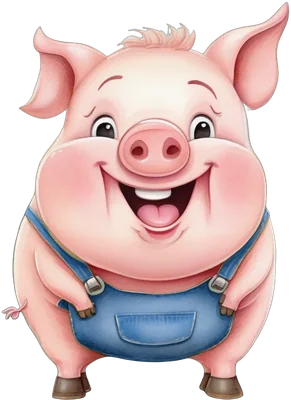
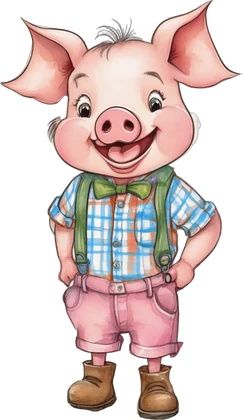
3びきのこぶた：こぶたの絵をオオカミと同じ画風にする
- こぶたを、オオカミと同じ色えんぴつと水彩の画風（細い線、服を着た立ち姿）で作り直す
- 3びきはシャツの色を黄・オレンジ・青に変えて見分ける。2ひきめの吹き出しのふちもオレンジにする
- 表情（にっこり・こわがる）は顔のまわりだけインペイントで描き直す
- 絵の大きさと足元の位置、汗の位置を新しい絵に合わせる

diff --git a/three-little-pigs/js/art.js b/three-little-pigs/js/art.js
@@ -30,7 +30,7 @@
   // height はワールド座標での高さ。
 
   const SPRITES = {
-    pig: { px: [291, 400], foot: [147.3, 399.6], height: 164 },
+    pig: { px: [243, 420], foot: [124, 419.5], height: 175 },
     wolf: { px: [284, 460], foot: [172.5, 459.5], height: 235 },
   };
 
@@ -91,7 +91,7 @@ ${lin('g-fade-h', [[0, '#000'], [0.04, '#fff'], [0.96, '#fff'], [1, '#000']], 1,
 ${shadow(52, 8)}
 <g class="a-body">
   ${faces('pig' + n, PIG_FACES, b)}
-  <g class="p-sweat">${drop(52, -150)}${drop(64, -128, 0.7)}</g>
+  <g class="p-sweat">${drop(36, -152)}${drop(46, -132, 0.7)}</g>
 </g>`;
   }
 

diff --git a/three-little-pigs/style.css b/three-little-pigs/style.css
@@ -392,7 +392,7 @@ button:focus-visible, select:focus-visible { outline: 3px solid var(--ink); outl
 .bubble::after { top: calc(100% - 1px); border-width: 12px 8px 0; border-top-color: #fffdf8; }
 .bubble.wolf { --edge: #8a93a6; }
 .bubble.pig1 { --edge: var(--mustard); }
-.bubble.pig2 { --edge: var(--sage); }
+.bubble.pig2 { --edge: #e0904e; }
 .bubble.pig3 { --edge: var(--slate); }
 .bubble.pigs { --edge: var(--rose); }
 @keyframes bubble-in {

diff --git a/three-little-pigs/README.md b/three-little-pigs/README.md
@@ -76,7 +76,7 @@
 ### デザイン
 水彩と色えんぴつで描いた絵本のような見た目です。
 - こぶた・オオカミ・家・材料・水さし・おなべ・だんろ・背景は、画像生成 AI（Stable Diffusion XL）で作った画像です（`img/`）。作り方は下の「絵について」を見てください
-- こぶた 3 びきは同じ 1 枚の絵から作り、服の色だけを変えています（1ぴきめは黄色、2ひきめは緑、3びきめは青）。顔や体の形がそろうので、きょうだいらしく見えます
+- こぶた 3 びきは同じ 1 枚の絵から作り、シャツの色だけを変えています（1ぴきめは黄色、2ひきめはオレンジ、3びきめは青）。顔や体の形がそろうので、きょうだいらしく見えます
 - 表情は、顔のまわりだけを描き直した画像を重ねて切り替えます。こぶたは「ふつう・にこにこ・こわがる」、オオカミは「ふつう・ほっぺをふくらませる・ふーっ・へとへと・あちち・ごめんね・にっこり」です
 - マイクで息を吹いているあいだは、息の強さに合わせて、ほっぺをふくらませたオオカミの絵がじわっと重なります
 - 家の絵は横に切り分けてあり、タッチするたびに下から 1 段ずつ積み上がります。ふきとぶときは、段ごとにばらばらに飛んでいきます
@@ -92,7 +92,9 @@
 1. 元になる絵（こぶた・オオカミ・家・背景など）を、絵本風の水彩という共通の指示で何枚か作り、よいものを選ぶ
 2. 表情ちがいは、元の絵の顔のまわりだけを描き直す（インペイント）。描き直した範囲の外は元の絵のままなので、体や服はずれません
 3. 背景を取り除いて透過にし（rembg）、表情ちがいの絵がぴったり重なるよう、同じ範囲で切り抜いて大きさをそろえる
-4. こぶたの服の色は、緑の部分の色相だけを変えて黄色と青にする
+4. こぶたのシャツの色は、オレンジの部分の色相だけを変えて黄色と青にする
+
+こぶたは、オオカミと同じ画風（色えんぴつと水彩、細い線、2 本足の立ち姿で服を着ている）になるよう、オオカミの絵に合わせた指示で作り直しました。元の絵で手に持っていた不要な金具は、インペイントで消しています。
 
 絵を差し替えるときは、`js/art.js` の先頭にある画像の大きさや足元の位置（`SPRITES`・`HOUSE_IMG` など）も合わせて直してください。
 

diff --git a/CLAUDE.md b/CLAUDE.md
@@ -22,7 +22,7 @@
   - 物語の進行は `js/story.js`、息の「ふーっ」判定は `js/breath.js`。どちらも画面に触れない純粋なロジックで、ブラウザと Node.js の両方から読み込める
   - 絵は `img/*.webp`（`tools/imagegen` の Stable Diffusion XL で作った水彩の絵本風の画像）を、`js/art.js` が SVG の `<image>` として置く。汗・なみだ・炎・風などの効果だけ SVG で描く
   - 表情は表情ごとの画像を重ね、CSS クラス（`.wolf--hot` など）で見せる 1 枚を切り替える（`display: none` ではなく `opacity`。切り替えたときに一瞬消えないように）。表情ちがいは元の絵の顔のまわりだけをインペイントで描き直し、ほかの部分は元の絵と同じにしてある
-  - こぶた 3 びきは同じ絵から作り、服の色（緑）の色相だけ変えている（1：黄、2：緑、3：青）
+  - こぶた 3 びきは同じ絵から作り、シャツの色（オレンジ）の色相だけ変えている（1：黄、2：オレンジ、3：青）。こぶたはオオカミと同じ画風（色えんぴつ＋水彩、細い線、服を着た立ち姿）にそろえている。吹き出しのふちの色（`style.css` の `.bubble.pig1〜3`）もシャツの色に合わせる
   - 家の絵は横に切り分けて `.piece` にしている（つくるときは下から積み上がり、ふきとぶときは段ごとに飛ぶ）
   - 画像を差し替えたら、`art.js` の `SPRITES`・`HOUSE_IMG`・`ROOF_PATH`・`FIREPLACE`・`POT` など（画像の大きさ・足元の位置・やねの道すじ）も合わせて直し、`?scene=` で各場面の見た目を確かめること
   - マイクは HTTPS / localhost でのみ使える。タッチだけでも最後まで遊べることを保つこと
